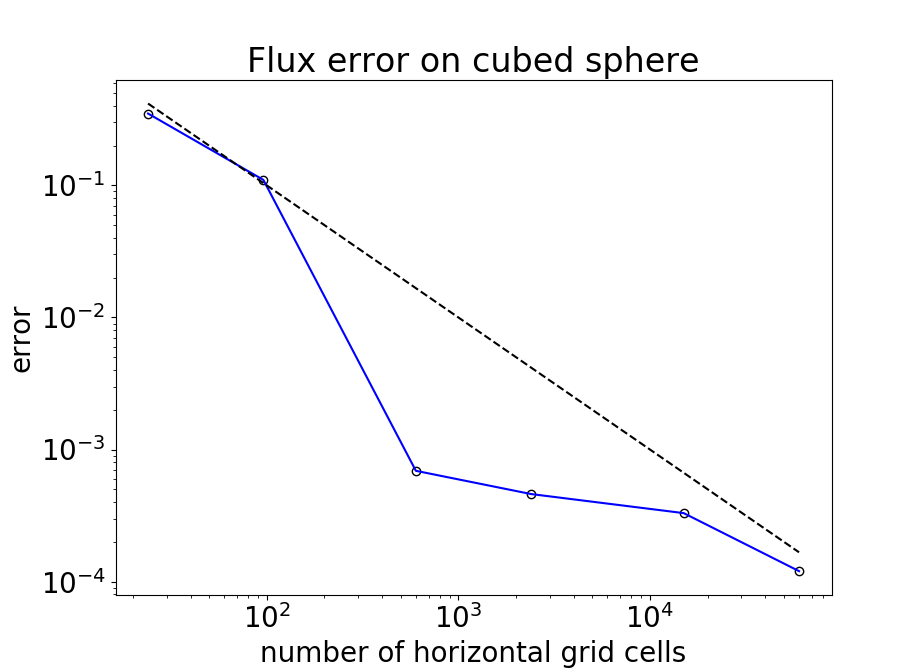
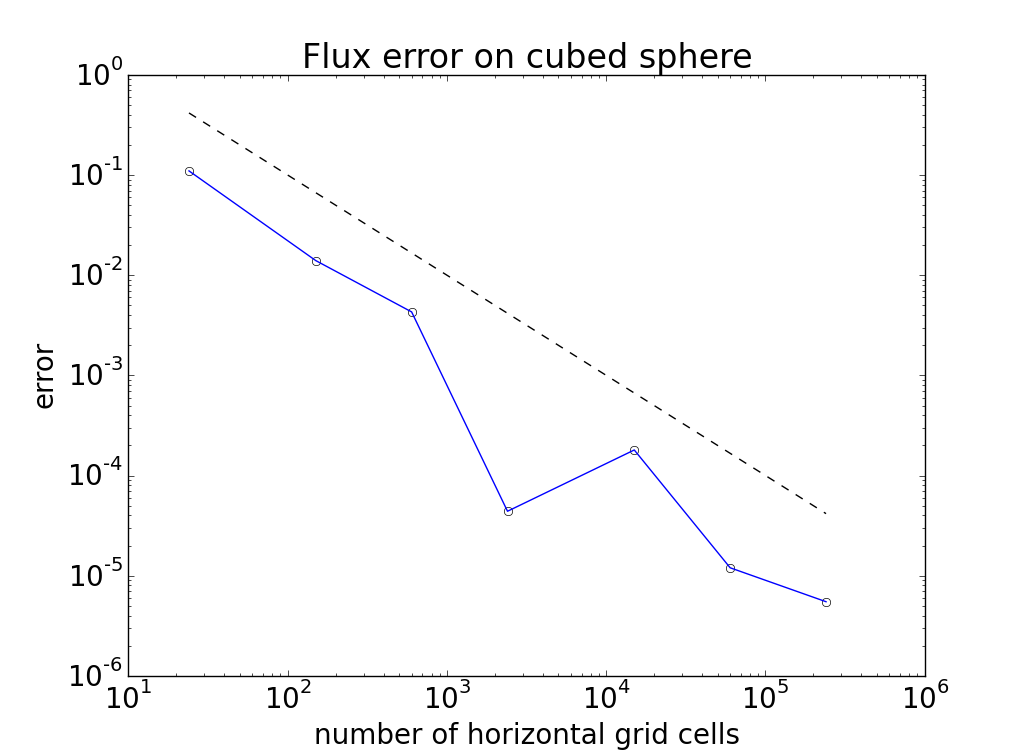
new results

diff --git a/figs/cubedSphereFluxError.py b/figs/cubedSphereFluxError.py
@@ -3,8 +3,10 @@ pylab.rcParams['font.size'] = 20
 
 import numpy
 
-numCells = numpy.array([24, 96, 600, 2400, 15000, 60000])
-error = numpy.array([-0.35, -0.11, -6.9e-4, -4.6e-4, -3.3e-4, -1.2e-4])
+# 20 segements
+
+numCells = numpy.array([24, 150, 600, 2400, 15000, 60000, 240000,])
+error = numpy.array([0.11, 0.014, 0.0043, 4.4e-5, 1.8e-4, 1.2e-5, 5.5e-6])
 
 pylab.loglog(numCells, abs(error), 'o', markeredgecolor='k', markerfacecolor='w')
 pylab.loglog(numCells, abs(error), 'b-')
